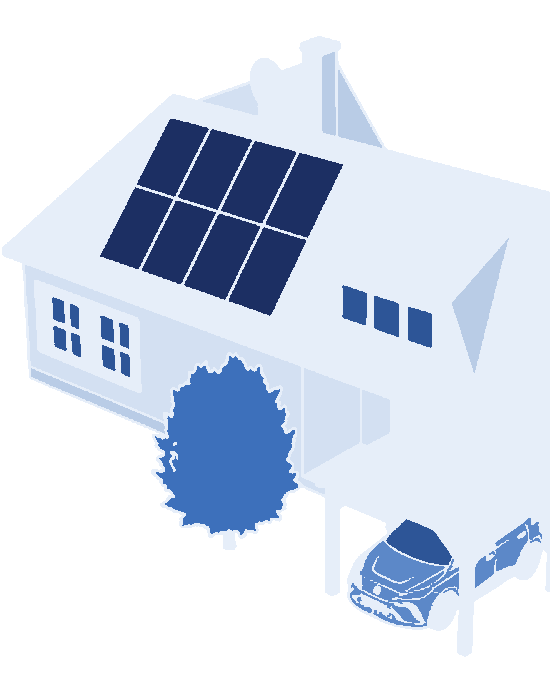
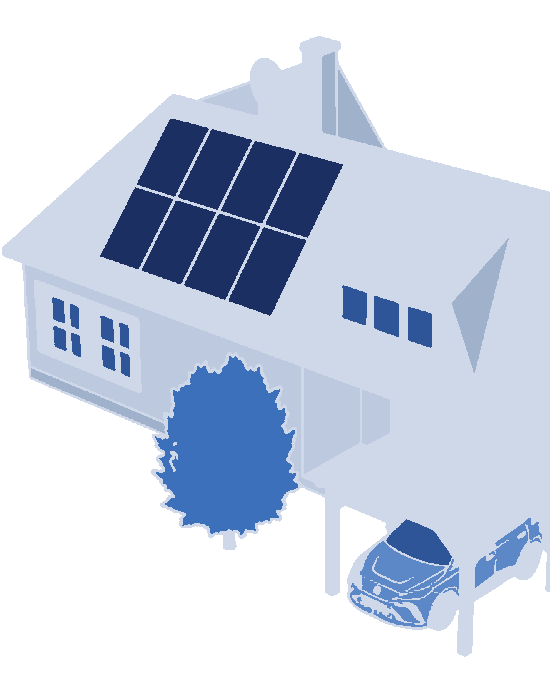
feat: karta Teraz – dom o 10 % menší pred kopcom, svetlý ako elektráreň (#494)
Pokračovanie #493 podľa používateľa: dom o 10 % menší, kopec nie presne
v ľavom dolnom rohu domu, ale vyššie; svetlosť domu približne ako
elektráreň.

- `DOM.k` 0,2 → 0,18 (x posunuté, aby pravý okraj kresby ostal za
okrajom scény), `KOPEC` pri dome o 8 jednotiek vyššie – línia kopca sa
stretne s ľavou stenou nad jej rohom.
- Farby výplne v `scripts/dom-vypln.js` stmavené (strecha 206/216/233,
stena 188/201/222, tieň 160/177/204), `img/dom-vypln.png` vyrobená
znova; čiary `.sc-dom` 0,92 → 0,8.
- Číslo spotreby nad domom posunuté k nižšej streche.
- `docs/img/terazky.png` cez `npm run screenshots`.

Overenie: `npm run check` zelené, vzhľad na snímkach (jasno, dážď, noc).
E2E lokálne nebežali, overí CI. Na telefóne ešte nie.

🤖 Generated with [Claude Code](https://claude.com/claude-code)

Changed region(s): [[0.8036, 0.3392, 0.9273, 0.5551], [0.5873, 0.0617, 0.7109, 0.2159], [0.0618, 0.5242, 0.3091, 0.6476]]

diff --git a/web/render/teraz-scena.js b/web/render/teraz-scena.js
@@ -19,9 +19,10 @@ const SLNKO = [-14, -80];
 /**
  * Kresba domu: 550 × 681 px, biele čiary na priehľadnom pozadí, pod ňou výplň rovnakej veľkosti. Na scénu ju
  * posunie a zmenší `x`, `k`; riadok kresby `dno` (päta prístrešku) leží na `y`. Pravý okraj kresby je odrezaný,
- * preto je za okrajom scény. Ľavý roh steny (riadok 375) stojí na vrchu kopca (KOPEC).
+ * preto je za okrajom scény. Kopec za domom (KOPEC) siaha
+ * vyššie než ľavý roh steny (riadok 375), takže dom stojí pred ním, nie na jeho vrchole.
  */
-const DOM = { x: 232, y: 232, k: 0.2, dno: 652, w: 550, h: 681 };
+const DOM = { x: 243, y: 232, k: 0.18, dno: 652, w: 550, h: 681 };
 /** Rohy poľa panelov na kresbe: hore vľavo, hore vpravo, dole vľavo, dole vpravo. */
 const PANELY = [
     [168, 118],
@@ -44,10 +45,10 @@ const r1 = (n) => Math.round(n * 10) / 10;
 /** Krajina je kreslená o ZEM vyššie (posunie ju transform). */
 const ZEM = 8;
 /**
- * Kopec v krajine: pri dome (vľavo v krajine) vystúpi až k ľavému rohu steny, k elektrárni klesá. Spolu so zemou
+ * Kopec v krajine: pri dome (vľavo v krajine) vystúpi nad ľavý roh steny, k elektrárni klesá. Spolu so zemou
  * pod ním je plný a siaha pod spodok scény, aby za ním nebolo vidno počasie.
  */
-const KOPEC = 'M-10 168 C40 167 80 169 110 175 S170 190 230 188 S300 182 340 186 L340 250 L-10 250Z';
+const KOPEC = 'M-10 160 C40 159 80 162 110 171 S170 190 230 188 S300 182 340 186 L340 250 L-10 250Z';
 /** Krajina (stĺp, stožiar, elektráreň) je kreslená sprava a zrkadlí sa doľava; bod domu do nej prepočíta. @param {number[]} p */
 const doKrajiny = (p) => [SCENA.w - p[0], p[1] - ZEM];
 
@@ -182,7 +183,7 @@ export function cislaSvg(s, ukaz) {
         `<text class="sc-cislo" data-k="${k}" x="${p[0]}" y="${p[1]}"><tspan>${escapeHtml(v)}</tspan><tspan class="sc-kw" dx="1">kW</tspan></text>`;
     let o = '';
     if (s.vyroba) o += c('slnko', [64, 54], s.vyroba);
-    if (s.dom) o += c('dom', [290, 90], s.dom);
+    if (s.dom) o += c('dom', [292, 104], s.dom);
     if (s.siet) o += c(s.siet.smer, [96, 120], s.siet.kw);
     return `${SVG}>${o}</svg>`;
 }

diff --git a/scripts/dom-vypln.js b/scripts/dom-vypln.js
@@ -1,5 +1,5 @@
 // Výplň domu pre scénu na karte Teraz: img/dom-vypln.png leží pod čiarovou kresbou img/dom.png a robí z nej
-// plný dom (svetlé steny a strecha, tmavé okná a panely, modrý strom a auto). Plný dom zakryje dážď, sneh
+// plný dom (steny a strecha svetlé asi ako elektráreň, tmavé okná a panely, modrý strom a auto). Plný dom zakryje dážď, sneh
 // aj oblaky za sebou (docs/navrhy/teraz-scena-zem.html, počasie B). Nie je súčasťou behu appky - výsledok
 // leží v repozitári a stránka ho servíruje tak, ako je.
 //
@@ -18,9 +18,9 @@ import { chromium } from '@playwright/test';
 
 /** Farby plôch (RGB). */
 const FARBY = {
-    strecha: [230, 238, 249],
-    stena: [211, 224, 242],
-    tien: [185, 204, 230],
+    strecha: [206, 216, 233],
+    stena: [188, 201, 222],
+    tien: [160, 177, 204],
     okno: [45, 85, 151],
     panel: [28, 47, 99],
     strom: [61, 112, 187],

diff --git a/css/teraz.css b/css/teraz.css
@@ -552,7 +552,7 @@
     animation: sc-lesk 3.2s ease-in-out infinite alternate;
 }
 .sc-dom {
-    opacity: 0.92;
+    opacity: 0.8;
 }
 /* Lúče do panelov: zlaté čiarky, ktoré bežia zo slnka na strechu (výrazne hustejšie než lúče oblohy). */
 .sc-luc,
